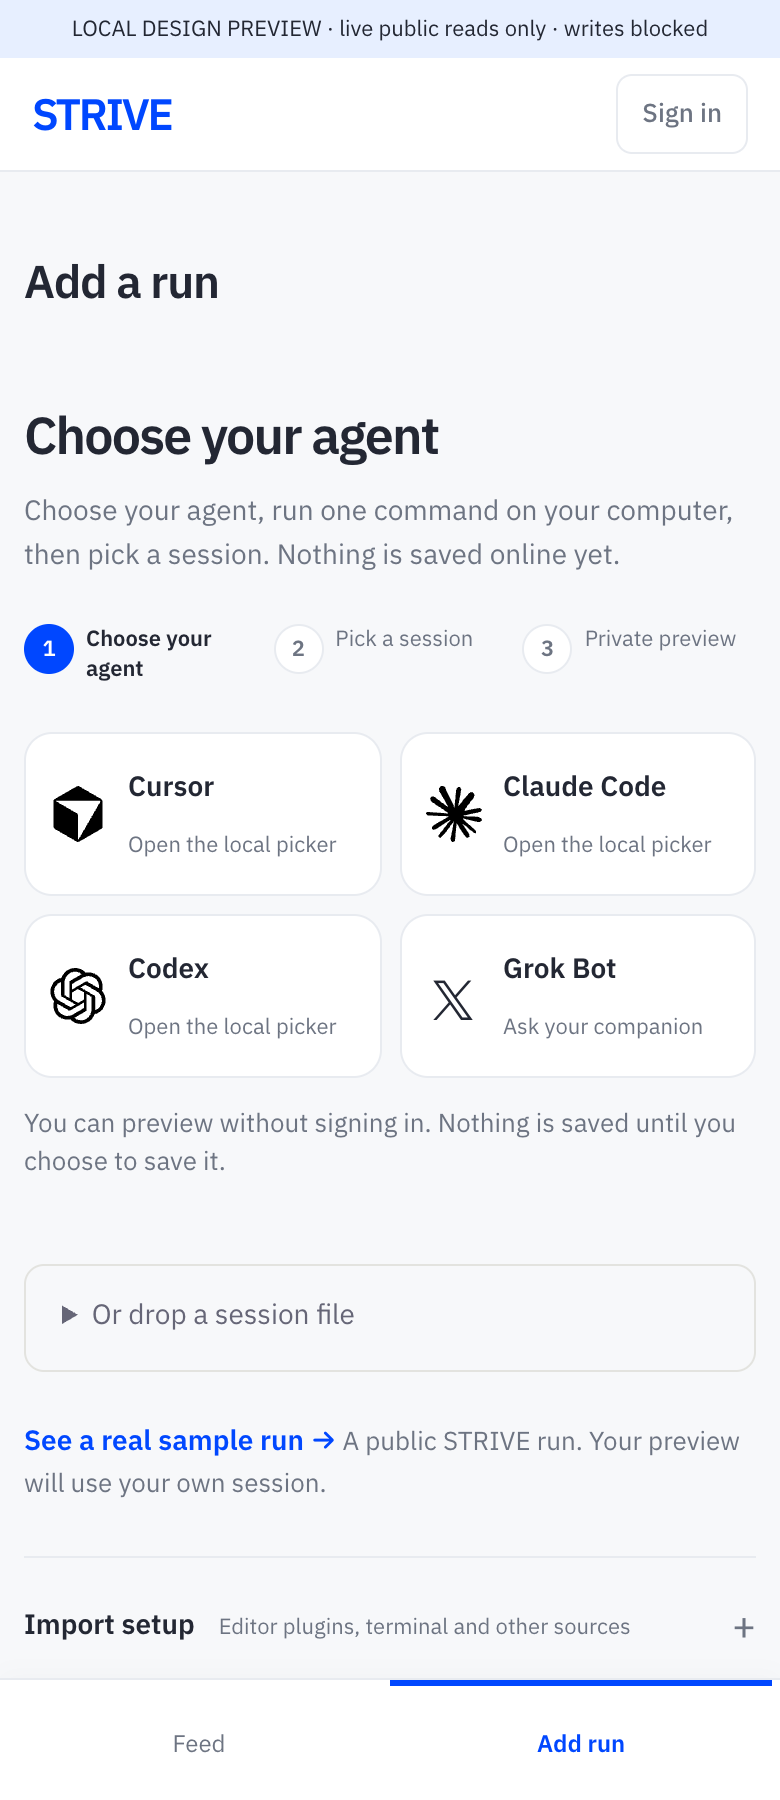
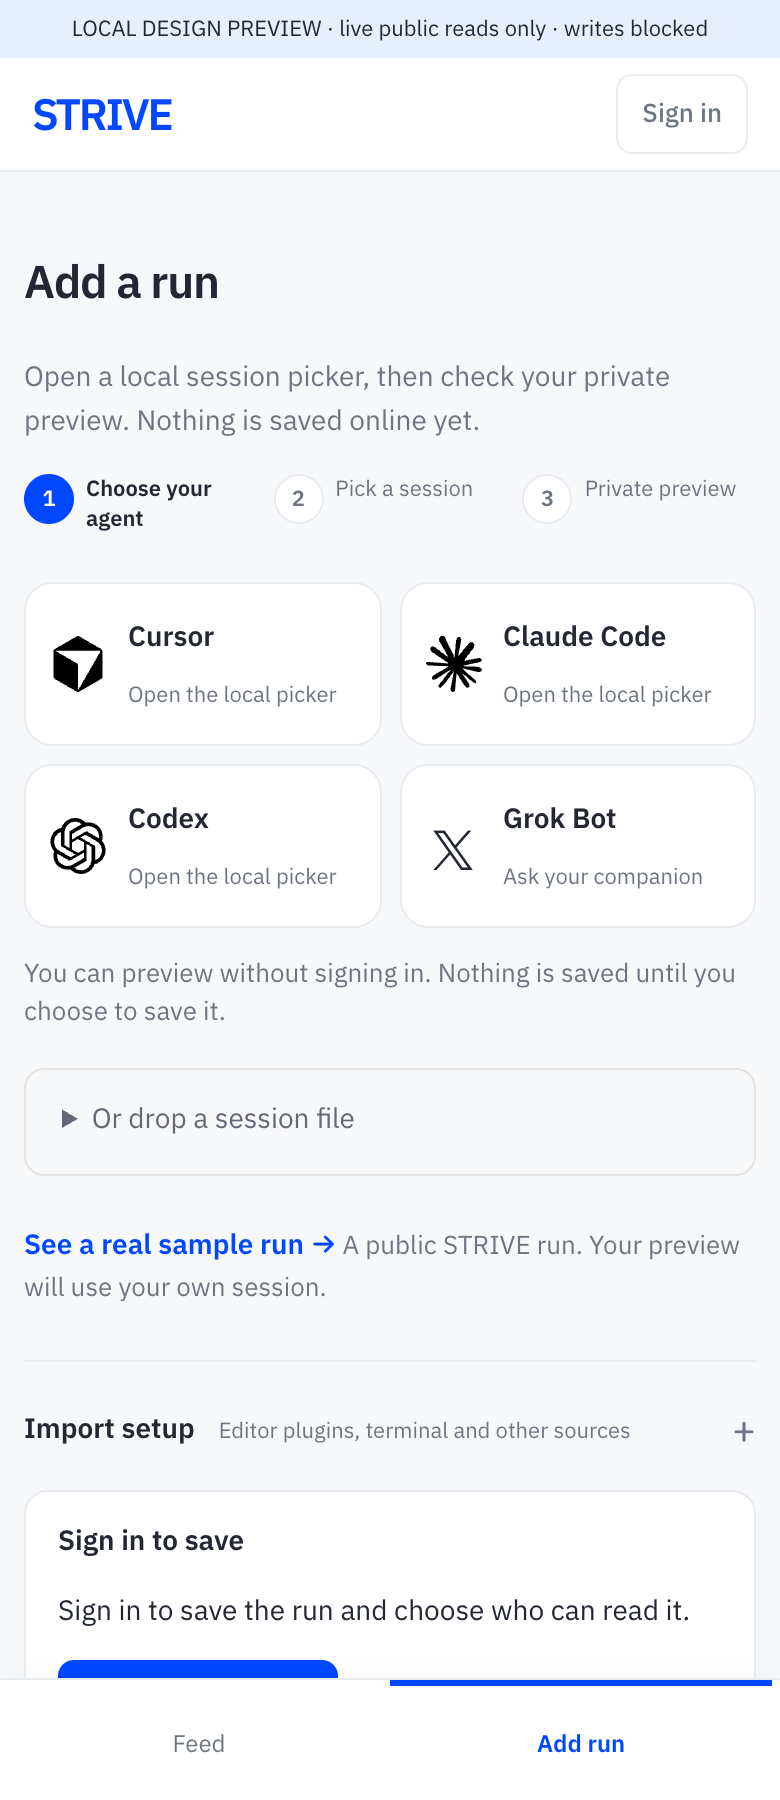
Keep Add run as the single page heading

diff --git a/site/post-flow.js b/site/post-flow.js
@@ -7,8 +7,8 @@
 
   function setupHtml({agentPrompt,capture,syncHtml,dropHtml,agentFiles=[],agentCommands={}}){
     const tabs=[['editor','Editor plugin'],['terminal','Terminal'],['automatic','Automatic imports'],['files','Find a session']];
-    return `<section class="post-start" aria-labelledby="post-start-title"><h2 id="post-start-title">Choose your agent</h2>
-      <p class="post-start-intro">Choose your agent, run one command on your computer, then pick a session. Nothing is saved online yet.</p><ol class="post-flow-steps" aria-label="Import steps"><li aria-current="step"><span>1</span>Choose your agent</li><li><span>2</span>Pick a session</li><li><span>3</span>Private preview</li></ol>
+    return `<section class="post-start" aria-label="Choose your agent">
+      <p class="post-start-intro">Open a local session picker, then check your private preview. Nothing is saved online yet.</p><ol class="post-flow-steps" aria-label="Import steps"><li aria-current="step"><span>1</span>Choose your agent</li><li><span>2</span>Pick a session</li><li><span>3</span>Private preview</li></ol>
       <div class="post-source-grid" aria-label="Choose your agent">
         <button class="ghost" type="button" data-post-source="cursor" data-command="${esc(agentCommands.cursor||capture)}"><img src="/media/cursor-mark.svg" alt=""><strong>Cursor</strong><span>Open the local picker</span></button>
         <button class="ghost" type="button" data-post-source="claude" data-command="${esc(agentCommands.claude||capture)}"><img src="/media/claude-mark.svg" alt=""><strong>Claude Code</strong><span>Open the local picker</span></button>

diff --git a/site/design.css b/site/design.css
@@ -546,3 +546,5 @@ button,summary{touch-action:manipulation}
 .post-start{margin-top:0;padding:20px}.post-command-details{min-width:0;max-width:100%}.post-command-details summary{font-size:12px;cursor:pointer;padding:8px}.post-quick-start .cmd{display:block}.post-command-details code{display:block;margin-top:10px}.post-command-details:not([open]) code{display:none}#run-edit .run-photo-grid[data-photo-count="1"]{grid-template-columns:minmax(0,180px)}#run-edit .run-photo-grid[data-photo-count="2"]{grid-template-columns:repeat(2,minmax(0,1fr))}
 
 @media(max-width:600px){.post-start{padding:10px 0}.post-start .post-flow-steps{display:grid;grid-template-columns:repeat(3,minmax(0,1fr));gap:8px}.post-start .post-flow-steps li{white-space:normal;align-items:flex-start;line-height:1.35;font-size:11px}.post-start .post-flow-steps li>span{flex-shrink:0}}
+
+#app>.post-page-head{margin-bottom:8px}.post-start{padding:0}.post-start .post-start-intro{margin-bottom:16px;max-width:48ch}

diff --git a/site/index.html b/site/index.html
@@ -2038,7 +2038,7 @@ function postComposerHtml({first=false}={}){
 async function viewPost(){
   setPrimarySection('post');
   frame(railHtml('post'),null);
-  $('app').innerHTML=`<div class="head"><h1>Add a run</h1></div>
+  $('app').innerHTML=`<div class="head post-page-head"><h1>Add a run</h1></div>
     ${connectBodyHtml()}
     ${ME?'':'<div class="panel pad auth-empty"><h3>Sign in to save</h3><p>Sign in to save the run and choose who can read it.</p><button id="post-signin" class="act blue">'+signInLabel()+'</button></div>'}`;
   if(window.GrinderDropinUI) GrinderDropinUI.mount({privateFirst:true,post:token=>{history.pushState(null,'','/#import='+token);route();}});
